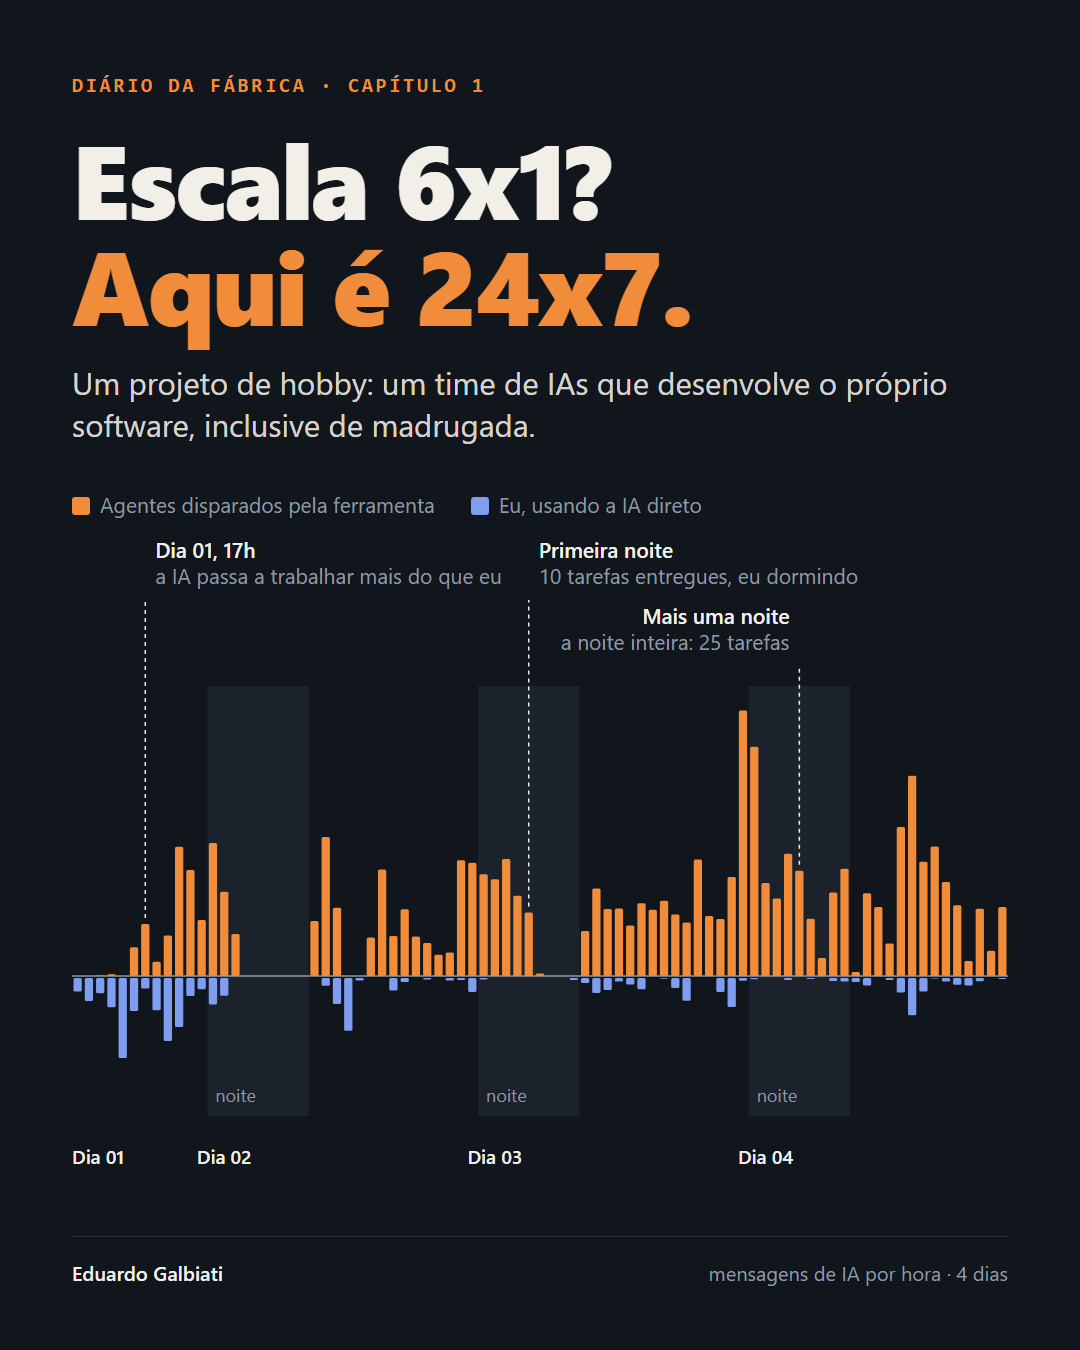
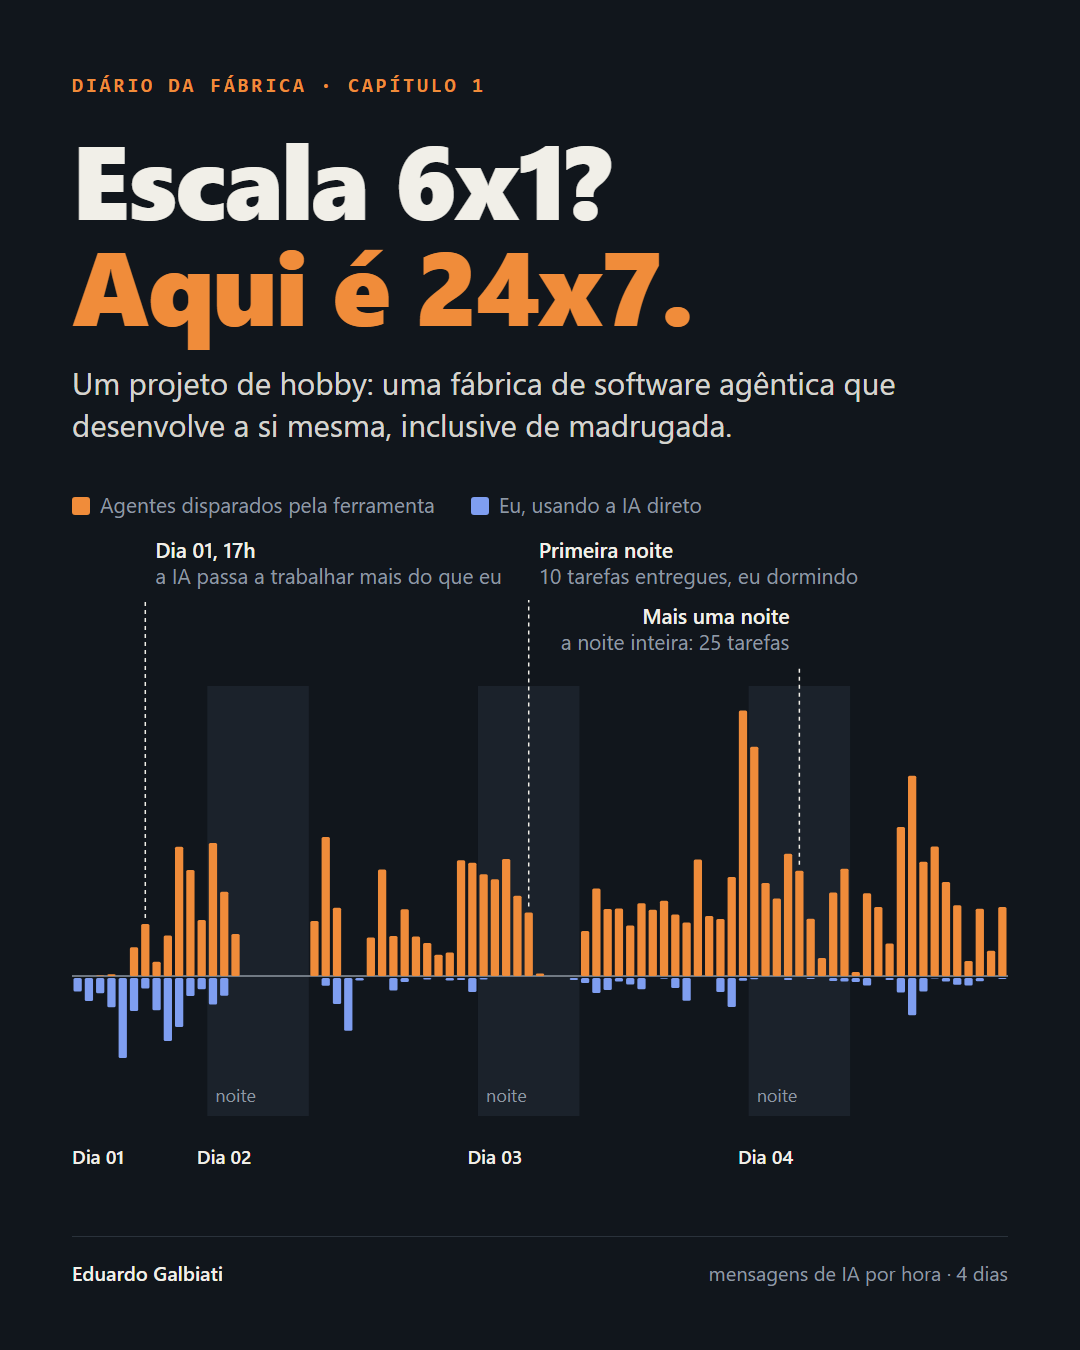
Site 24x7: chapter 1 as revised (agentic software factory) and its new image

Changed region(s): [[0.0611, 0.28, 0.8861, 0.3422]]

diff --git a/site/24x7/posts/01.pt.md b/site/24x7/posts/01.pt.md
@@ -1,6 +1,6 @@
 ![Mensagens de IA por hora em quatro dias: a partir do dia 1, às 17h, os agentes disparados pela ferramenta passam a trabalhar mais do que eu usando a IA direto, inclusive nas noites]({{base}}/media/capitulo-01.png)
 
-Quando falam de escala 6x1, eu penso em outra conta. Aqui a escala é 24x7. E não sou eu que trabalho 24 horas por dia: é o software que eu construí, por hobby, em pouco mais de uma semana.
+Quando falam de escala 6x1, eu penso em outra conta. Aqui a escala é 24x7. E não sou eu que trabalho 24 horas por dia: é a fábrica de software agêntica que eu construí, por hobby, em pouco mais de uma semana.
 
 Este é o primeiro capítulo de um diário. Vou contar o que estou construindo, como cheguei até aqui, o que deu errado no caminho e o que aprendi com isso. Nos próximos capítulos, cada aprendizado ganha um texto próprio, com os dados e com os erros. Por exemplo, por que o gargalo não é o código (capítulo 4) e por que o git foi feito para humanos (capítulo 6).
 
@@ -19,7 +19,7 @@ O fluxo é o mesmo que um time de desenvolvimento seguiria:
 - **Revisar:** um terceiro revisa, de preferência usando um modelo diferente do que escreveu. Uma IA revisando o trabalho de outra pega coisas que a primeira não veria.
 - **Aprovar:** o código só entra se passar pelos testes e pela revisão. Nos pontos em que eu quero decidir, o fluxo para e espera por mim. Nenhuma automação passa por cima dessa aprovação.
 
-Ainda naquela noite entraram as etapas de build, de integração contínua e de um ambiente de teste para cada mudança. Fui dormir com um esqueleto que já parecia uma esteira de produção.
+Ainda naquela noite entraram as etapas de build, de integração contínua e de um ambiente de teste para cada mudança. Fui dormir com um esqueleto que já parecia uma esteira de produção. Foi o começo do que hoje se chama de fábrica de software agêntica: uma fábrica de software em que cada etapa é executada por agentes de IA, e as pessoas decidem o que construir e aprovam o que entra.
 
 ## O domingo: a primeira execução real, e o primeiro erro
 
@@ -115,7 +115,7 @@ Se eu organizar bem os fluxos, os agentes e o backlog, posso interagir com o sis
 
 Este projeto é o que eu faço nas horas que sobram. E foi justamente isso que mudou minha cabeça: duas horas por dia de uma pessoa podem virar 24 horas de trabalho, desde que exista trabalho bem definido para fazer.
 
-E trabalho nunca falta. Pergunte em qualquer empresa se tem coisa para fazer em tecnologia, e a resposta é sempre a mesma: tem um milhão de coisas. O que falta é definir, organizar num backlog e ter uma esteira que execute com qualidade. O backlog é o combustível da fábrica.
+E trabalho nunca falta. Pergunte em qualquer empresa se tem coisa para fazer em tecnologia, e a resposta é sempre a mesma: tem um milhão de coisas. O que falta é definir, organizar num backlog e ter uma esteira que execute com qualidade. O backlog é o combustível da fábrica agêntica.
 
 Ainda não cheguei nas duas horas. Na segunda noite, eu ainda mandei mais de cem mensagens ao longo do dia, boa parte delas para planejar a noite. Mas o caminho ficou claro: o limite deixou de ser o meu tempo.
 

diff --git a/site/24x7/posts/01.en.md b/site/24x7/posts/01.en.md
@@ -1,4 +1,4 @@
-In Brazil, people are debating the 6x1 schedule: six days of work, one day off. I've been thinking about a different schedule. Here it's 24/7. And I'm not the one working 24 hours a day: it's the software I built, as a hobby, in a little over a week.
+In Brazil, people are debating the 6x1 schedule: six days of work, one day off. I've been thinking about a different schedule. Here it's 24/7. And I'm not the one working 24 hours a day: it's the agentic software factory I built, as a hobby, in a little over a week.
 
 This is the first chapter of a diary. I'll tell you what I'm building, how I got here, what went wrong along the way and what I learned from it. In the next chapters, each lesson gets its own piece, with the data and with the mistakes. For example, why the bottleneck isn't the code (chapter 4) and why git was made for humans (chapter 6).
 
@@ -17,7 +17,7 @@ The workflow is the same one a development team would follow:
 - **Review:** a third one reviews, preferably with a different model from the one that wrote it. An AI reviewing another AI's work catches things the first one wouldn't see.
 - **Approve:** the code only goes in if it passes the tests and the review. At the points where I want to decide, the workflow stops and waits for me. No automation goes over that approval.
 
-That same night, the build steps, continuous integration and a test environment for every change went in too. I went to bed with a skeleton that already looked like a production line.
+That same night, the build steps, continuous integration and a test environment for every change went in too. I went to bed with a skeleton that already looked like a production line. It was the beginning of what is now called an agentic software factory: a software factory where every step is run by AI agents, and people decide what to build and approve what goes in.
 
 ## Sunday: the first real run, and the first mistake
 
@@ -113,7 +113,7 @@ If I organize the workflows, the agents and the backlog well, I can interact wit
 
 This project is what I do in my spare hours. And that's exactly what changed my mind: two hours a day of one person can turn into 24 hours of work, as long as there is well-defined work to do.
 
-And there is never a shortage of work. Ask any company whether there's anything to do in tech, and the answer is always the same: there are a million things. What's missing is defining them, organizing them in a backlog and having a production line that delivers them with quality. The backlog is the factory's fuel.
+And there is never a shortage of work. Ask any company whether there's anything to do in tech, and the answer is always the same: there are a million things. What's missing is defining them, organizing them in a backlog and having a production line that delivers them with quality. The backlog is the agentic factory's fuel.
 
 I haven't reached the two hours yet. On the second night, I still sent more than a hundred messages throughout the day, many of them to plan the night. But the path became clear: the limit is no longer my time.
 
